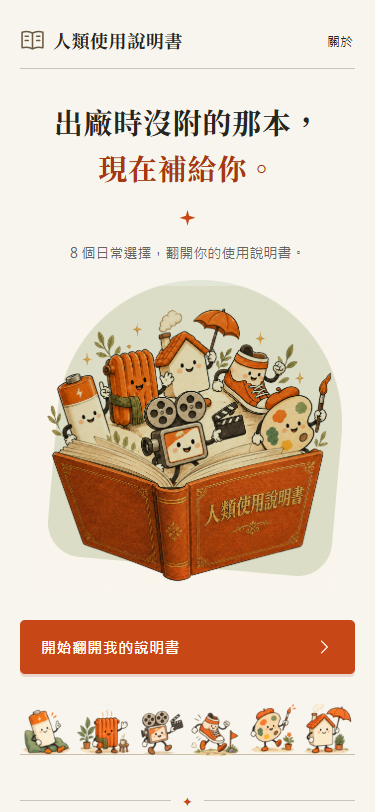
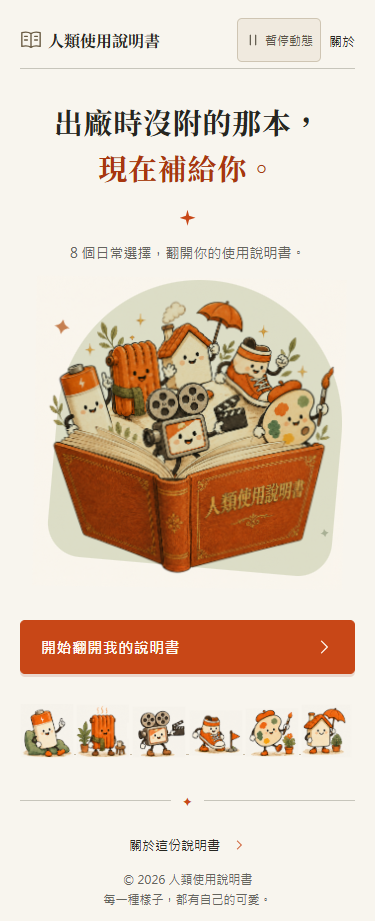
docs: record verified public motion release [skip ci]

diff --git a/docs/IMPLEMENTATION-PLAN.md b/docs/IMPLEMENTATION-PLAN.md
@@ -1,6 +1,6 @@
 # 實作計畫
 
-## 2026-09-08 動態繪本（本機驗收通過，待公開部署）
+## 2026-09-08 動態繪本（已發布並通過公開驗收）
 
 使用者希望圖片能動起來，改善整體過於靜態的感覺；沿用直接修改及發布到既有 Pages 的授權。採活潑但保留繪本感的合理假設，不改計分、題庫與分享資料。
 
@@ -8,7 +8,7 @@
 - [x] 動態規格：六角色各四個姿勢，以眨眼、揮手、打板、輕跳等逐格動作搭配停留；首頁書冊循環輕搖、兩顆小星芒，作答插圖只輕微起伏。
 - [x] 動態控制：全站暫停、系統減少動態即時生效、離屏與隱藏頁籤自動暫停；載入失敗退回原圖。PNG 匯出保持靜態卡片。
 - [x] 驗證：實際影格、鍵盤、暫停跨頁、減少動態、圖片失敗、320px 與完整流程回歸；檢查六角色裁切與手機／桌機畫面。
-- [ ] 發布：本機通過後提交並推送，等 CI／Pages 成功，再驗公開網站。
+- [x] 發布：本機通過後提交並推送，CI／Pages 成功，公開網站另行驗收通過。
 
 不新增套件或外部服務。2026-09-08 既有套件及 Node 要求查核沿用同日上輪紀錄。素材採內建 imagegen 產生新 atlas，原始插圖保持原檔；素材規格與最終提示另記於 design/MOTION-EDITION.md。
 
@@ -17,6 +17,15 @@
 驗收中修正：lazy 圖片位於 display:none 時不開始載入，改為保留位置且暫時 visibility:hidden；暫停後關於／分享／錯誤頁進場停在 opacity:0，改為直接顯示並補回歸；調整暖爐橫向圖格與空白區遮罩，隔離相鄰葉片；書冊外層同步 multiply，保留灰綠底色。最後純圖格邊緣修整另重新建置及目視確認，不更動測驗／分享行為。
 
 頁籤隱藏的自動測試使用 visibilitychange 事件模擬，未冒稱原生背景頁籤實測。iOS Safari 與 App 內嵌實機仍未驗證。
+
+### 動態版公開發布
+
+- 已發布應用程式：`3ff87f592e1956503f35727dcfda85b9b46e661c`；[GitHub Actions 34175253838](https://github.com/mikeggyy/human-manual/actions/runs/34175253838) 的 build／deploy 皆成功。
+- CI 完成依賴安裝、型別、lint、單元／核心測試、production build 與 34 個 Chromium 流程測試（58.3 秒）。
+- [公開網站](https://mikeggyy.github.io/human-manual/) 首頁 HTTP 200，載入的 `/human-manual/assets/index-YCZBMP10.js` 與本機驗收建置一致。
+- 公開 HTTPS 另外執行 34 個 Edge 瀏覽器測試，全部通過（約 1.3 分鐘），含實際影格變化、暫停與恢復、即時 reduced motion、320px 觸控區、完整作答／本機保存／靜態 PNG 分享回歸。
+- 公開版另拍攝六角色與 24 格畫面、375／1440px 首頁／分享頁及實際播放錄影；無 page error。內建瀏覽器已目視確認並保留公開首頁。
+- 後續提交僅補發布紀錄與公開截圖，不改已部署應用程式。
 
 ## 2026-09-08 UI／UX 與內容審視（已發布並通過公開驗收）
 

diff --git a/docs/design/MOTION-EDITION.md b/docs/design/MOTION-EDITION.md
@@ -13,7 +13,7 @@
 
 ## 素材
 
-新增 [character-motion-v1.png](../../src/assets/character-motion-v1.png)，1024×1536、約 2.17MB，六列各四個姿勢。由內建 imagegen 產生，未使用 CLI／付費 API；保留原圖集與 PNG 匯出素材。
+新增 [character-motion-v1.png](../../src/assets/character-motion-v1.png)，1024×1536、約 2.17MB，六列各四個姿勢。由內建 imagegen 產生，未使用 CLI 或另接外部 API；保留原圖集與 PNG 匯出素材。
 
 初版背景意外畫出棋盤格，未採用；第二次只修正成白底。輸出為 RGB，並非真正 alpha；網頁使用 multiply 融合紙面，邊緣輕微淡出。各列有獨立裁切範圍，暖爐另外調整橫向圖格，避免相鄰盆栽滲入。調色盤眨眼格缺少花盆，因此該時段沿用完整休息姿勢，只播放揮筆動作。
 
